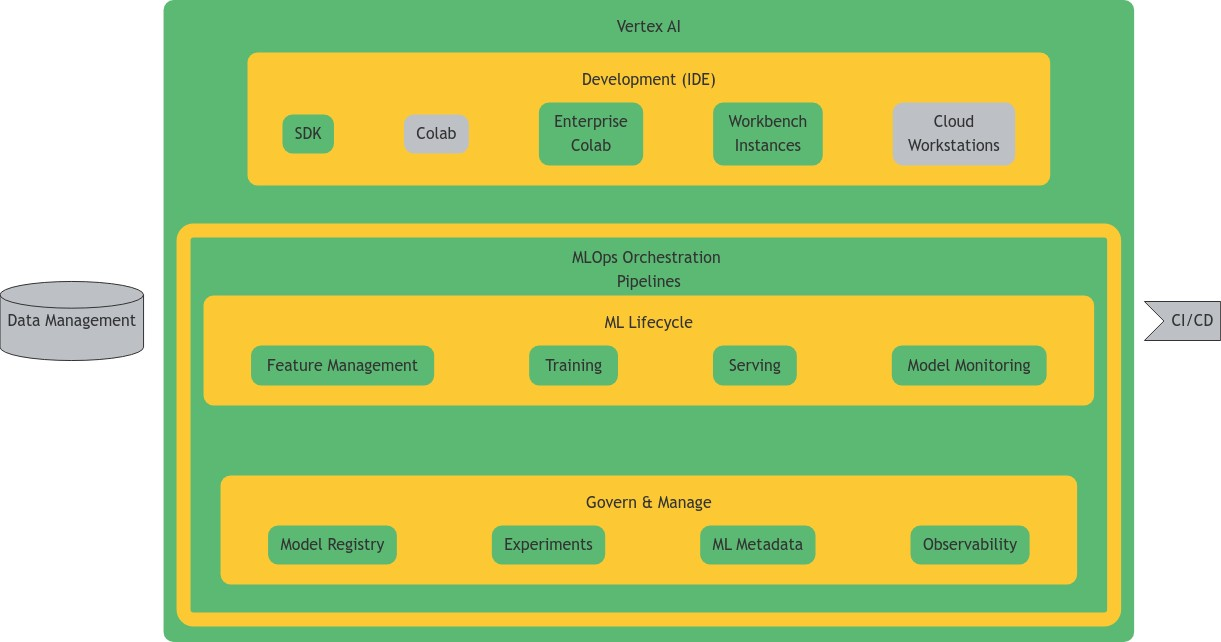
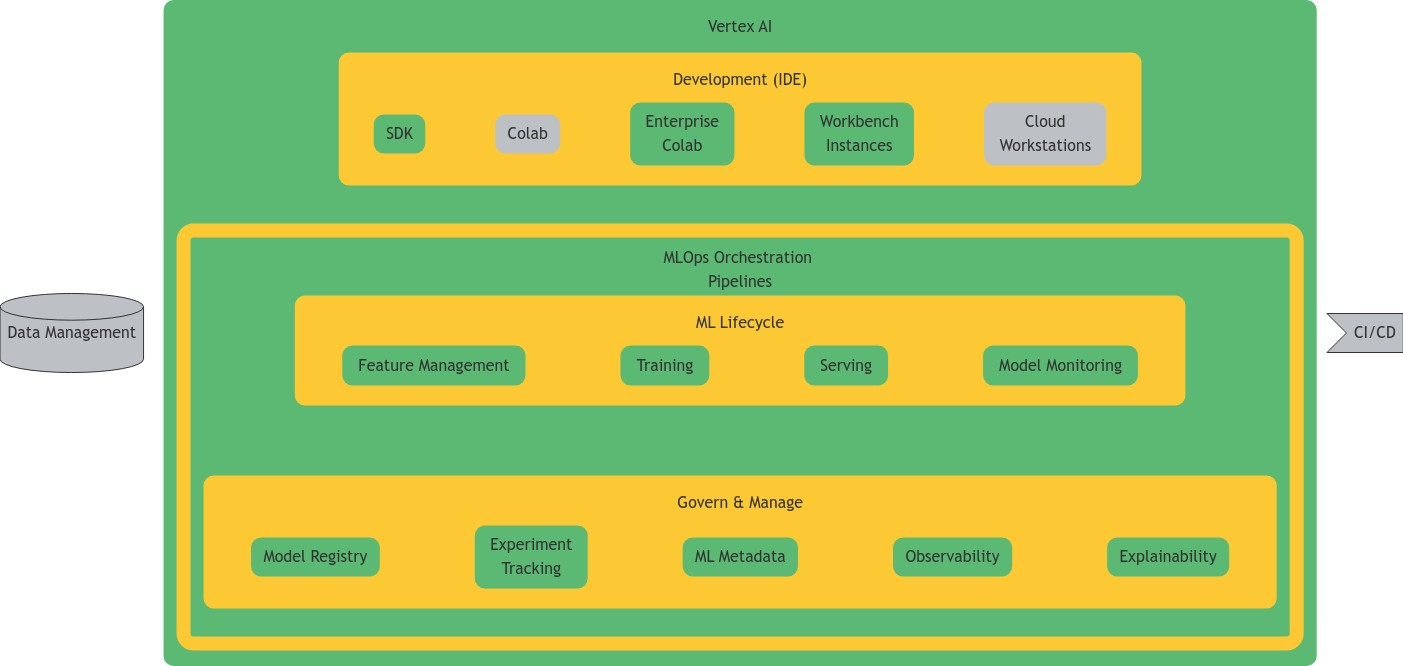
update overview for experiments

Changed region(s): [[0.0, 0.0, 1.0, 1.0]]

diff --git a/MLOps/readme.md b/MLOps/readme.md
@@ -100,6 +100,7 @@ Links To Content:
 - Orchestration with [Pipelines](./Pipelines/readme.md)
 - Feature Management with [Vertex AI Feature Store](./Feature%20Store/readme.md)
 - [Model Monitoring](./Model%20Monitoring/readme.md)
+- [Experiment Tracking](./Experiment%20Tracking/readme.md)
 - More coming soon!
     
 ---
